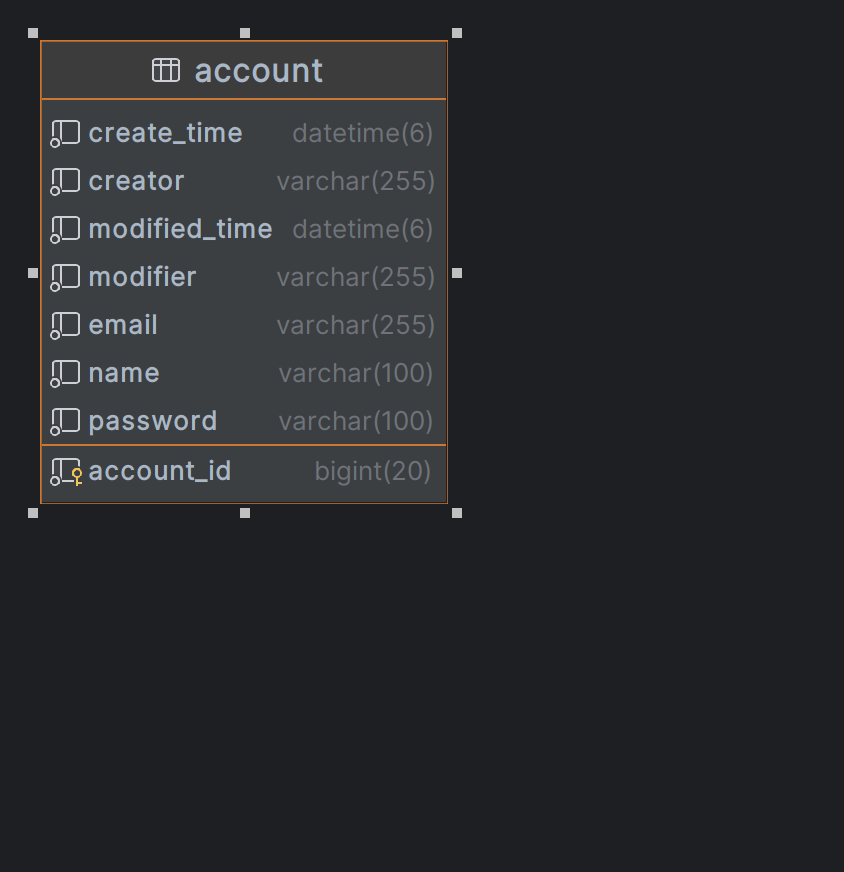
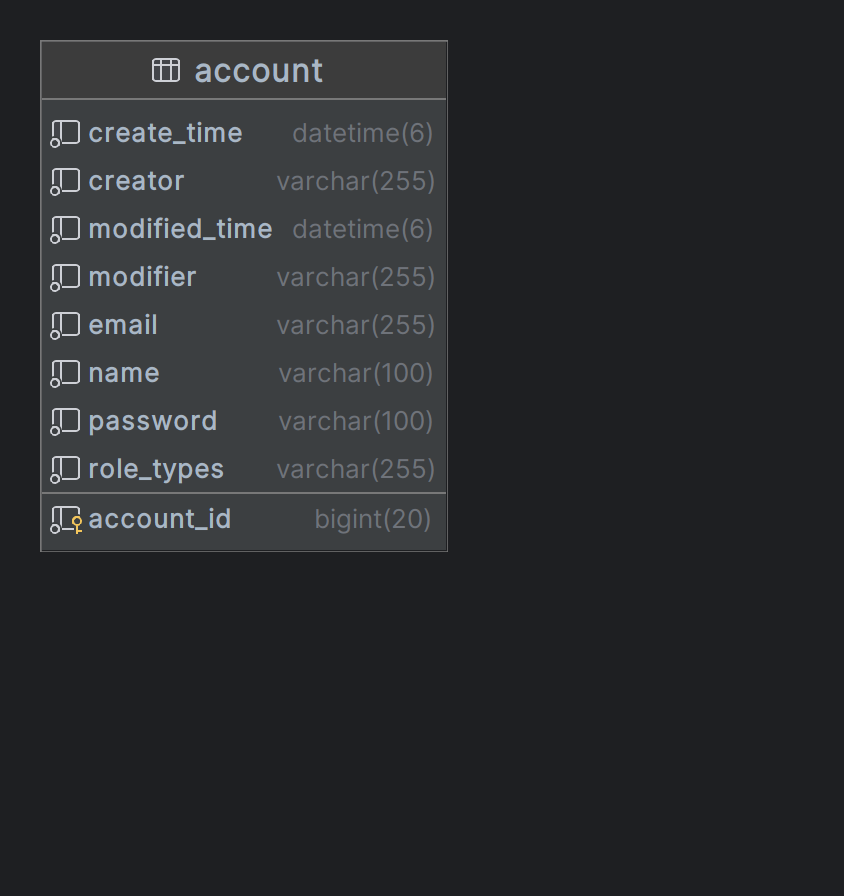
#6 사용자 계정에 대한 권한 추가
- RoleType 추가
-- ADMIN, DEVELOPER, MANAGER, USER 로 이루어진 권한 추가
-- 해당 권한에 대한 Entity 매핑 시 String으로 저장되도록 Converter 구성
-- 관련 DTO 내 RoleType 관련 추가
-- 관련하여 Principal 객체 내 RoleType 관련 추가
- 변경사항에 대해 ERD 갱신

Changed region(s): [[0.0308, 0.031, 0.5545, 0.6193]]

diff --git a/admin-service/src/main/java/com/guardjo/simpleboard/admin/model/security/BoardAdminPrincipal.java b/admin-service/src/main/java/com/guardjo/simpleboard/admin/model/security/BoardAdminPrincipal.java
@@ -1,32 +1,43 @@
 package com.guardjo.simpleboard.admin.model.security;
 
+import com.guardjo.simpleboard.admin.domain.constant.RoleType;
 import com.guardjo.simpleboard.admin.model.AccountDto;
 import org.springframework.security.core.GrantedAuthority;
+import org.springframework.security.core.authority.SimpleGrantedAuthority;
+import org.springframework.security.core.authority.mapping.GrantedAuthoritiesMapper;
 import org.springframework.security.core.userdetails.UserDetails;
 import org.springframework.security.oauth2.core.user.OAuth2User;
 
 import java.util.Collection;
 import java.util.Collections;
 import java.util.Map;
+import java.util.Set;
+import java.util.stream.Collectors;
 
 public record BoardAdminPrincipal(String email, String name, String password,
                                   Collection<? extends GrantedAuthority> authorities,
                                   Map<String, Object> oAuth2Attributes) implements UserDetails, OAuth2User {
-    public static BoardAdminPrincipal of(String email, String name, String password) {
+    public static BoardAdminPrincipal of(String email, String name, String password, Set<RoleType> roleTypes) {
         return new BoardAdminPrincipal(
                 email,
                 name,
                 password,
-                Collections.EMPTY_SET,
+                roleTypes.stream()
+                        .map(RoleType::name)
+                        .map(SimpleGrantedAuthority::new)
+                        .collect(Collectors.toUnmodifiableSet()),
                 Map.of());
     }
 
-    public static BoardAdminPrincipal of(String email, String name, String password, Map<String, Object> oAuth2Attributes) {
+    public static BoardAdminPrincipal of(String email, String name, String password, Set<RoleType> roleTypes, Map<String, Object> oAuth2Attributes) {
         return new BoardAdminPrincipal(
                 email,
                 name,
                 password,
-                Collections.EMPTY_SET,
+                roleTypes.stream()
+                        .map(RoleType::name)
+                        .map(SimpleGrantedAuthority::new)
+                        .collect(Collectors.toUnmodifiableSet()),
                 oAuth2Attributes);
     }
 
@@ -34,7 +45,8 @@ public record BoardAdminPrincipal(String email, String name, String password,
         return BoardAdminPrincipal.of(
                 accountDto.email(),
                 accountDto.name(),
-                accountDto.password()
+                accountDto.password(),
+                accountDto.roleTypes()
         );
     }
 
@@ -42,7 +54,11 @@ public record BoardAdminPrincipal(String email, String name, String password,
         return AccountDto.of(
                 principal.getUsername(),
                 principal.getNickName(),
-                principal.getPassword()
+                principal.getPassword(),
+                principal.authorities.stream()
+                        .map(GrantedAuthority::getAuthority)
+                        .map(RoleType::valueOf)
+                        .collect(Collectors.toSet())
         );
     }
 

diff --git a/admin-service/src/main/java/com/guardjo/simpleboard/admin/domain/Account.java b/admin-service/src/main/java/com/guardjo/simpleboard/admin/domain/Account.java
@@ -1,14 +1,21 @@
 package com.guardjo.simpleboard.admin.domain;
 
+import com.guardjo.simpleboard.admin.domain.constant.RoleType;
+import com.guardjo.simpleboard.admin.domain.converter.RoleTypesConverter;
+import lombok.EqualsAndHashCode;
 import lombok.Getter;
 import lombok.Setter;
 import lombok.ToString;
 
 import javax.persistence.*;
+import java.util.HashSet;
+import java.util.LinkedHashSet;
 import java.util.Objects;
+import java.util.Set;
 
 @Getter
 @ToString(callSuper = true)
+@EqualsAndHashCode
 @Entity
 @Table(indexes = {
         @Index(name = "email", columnList = "email"),
@@ -32,20 +39,25 @@ public class Account extends MetaInfoData{
     @Column(nullable = false, length = 100)
     private String password;
 
-    protected Account(String email, String name, String password, String creator) {
+    @Convert(converter = RoleTypesConverter.class)
+    @Column(nullable = false)
+    private Set<RoleType> roleTypes = new LinkedHashSet<>();
+
+    protected Account(String email, String name, Set<RoleType> roleTypes, String password, String creator) {
         this.email = email;
         this.name = name;
+        this.roleTypes = roleTypes;
         this.password = password;
         this.creator = creator;
         this.modifier = creator;
     }
 
-    public Account() {
+    protected Account() {
 
     }
 
-    public static Account of(String email, String name, String password) {
-        return new Account(email, name, password, null);
+    public static Account of(String email, String name, Set<RoleType> roleTypes, String password) {
+        return new Account(email, name, roleTypes, password, null);
     }
 
     /**
@@ -56,19 +68,7 @@ public class Account extends MetaInfoData{
      * @param creator 생성자
      * @return 회원 Entity
      */
-    public static Account of(String email, String name, String password, String creator) {
-        return new Account(email, name, password, creator);
-    }
-
-    @Override
-    public boolean equals(Object o) {
-        if (this == o) return true;
-        if (!(o instanceof Account account)) return false;
-        return Objects.equals(email, account.email) && Objects.equals(name, account.name) && Objects.equals(password, account.password);
-    }
-
-    @Override
-    public int hashCode() {
-        return Objects.hash(email, name, password);
+    public static Account of(String email, String name, Set<RoleType> roleTypes, String password, String creator) {
+        return new Account(email, name, roleTypes, password, creator);
     }
 }

diff --git a/admin-service/src/main/java/com/guardjo/simpleboard/admin/model/AccountDto.java b/admin-service/src/main/java/com/guardjo/simpleboard/admin/model/AccountDto.java
@@ -1,28 +1,33 @@
 package com.guardjo.simpleboard.admin.model;
 
 import com.guardjo.simpleboard.admin.domain.Account;
+import com.guardjo.simpleboard.admin.domain.constant.RoleType;
+
+import java.util.Set;
 
 /**
  * A DTO for the {@link com.guardjo.simpleboard.admin.domain.Account} entity
  */
-public record AccountDto(String email, String name, String password) {
-    public static AccountDto of(String email, String name, String password) {
-        return new AccountDto(email, name, password);
+public record AccountDto(String email, String name, String password, Set<RoleType> roleTypes) {
+    public static AccountDto of(String email, String name, String password, Set<RoleType> roleTypes) {
+        return new AccountDto(email, name, password, roleTypes);
     }
 
     public static AccountDto from(Account account) {
         return AccountDto.of(
                 account.getEmail(),
                 account.getName(),
-                account.getPassword()
+                account.getPassword(),
+                account.getRoleTypes()
         );
     }
 
     public static Account toEntity(AccountDto accountDto) {
         return Account.of(
-                accountDto.email,
-                accountDto.name,
-                accountDto.password
+                accountDto.email(),
+                accountDto.name(),
+                accountDto.roleTypes(),
+                accountDto.password()
         );
     }
 }

diff --git a/admin-service/src/main/java/com/guardjo/simpleboard/admin/domain/converter/RoleTypesConverter.java b/admin-service/src/main/java/com/guardjo/simpleboard/admin/domain/converter/RoleTypesConverter.java
@@ -1,0 +1,27 @@
+package com.guardjo.simpleboard.admin.domain.converter;
+
+import com.guardjo.simpleboard.admin.domain.constant.RoleType;
+
+import javax.persistence.AttributeConverter;
+import javax.persistence.Converter;
+import java.util.Arrays;
+import java.util.Set;
+import java.util.stream.Collectors;
+
+@Converter
+public class RoleTypesConverter implements AttributeConverter<Set<RoleType>, String> {
+    private final static String DELIMITER = ",";
+    @Override
+    public String convertToDatabaseColumn(Set<RoleType> attribute) {
+        return attribute.stream()
+                .map(RoleType::name)
+                .collect(Collectors.joining(DELIMITER));
+    }
+
+    @Override
+    public Set<RoleType> convertToEntityAttribute(String dbData) {
+        return Arrays.stream(dbData.split(DELIMITER))
+                .map(RoleType::valueOf)
+                .collect(Collectors.toSet());
+    }
+}

diff --git a/admin-service/src/main/java/com/guardjo/simpleboard/admin/domain/constant/RoleType.java b/admin-service/src/main/java/com/guardjo/simpleboard/admin/domain/constant/RoleType.java
@@ -1,0 +1,13 @@
+package com.guardjo.simpleboard.admin.domain.constant;
+
+import lombok.RequiredArgsConstructor;
+
+@RequiredArgsConstructor
+public enum RoleType {
+    USER("ROLE_USER"),
+    MANAGER("ROLE_MANAGER"),
+    DEVELOPER("ROLE_DEVELOPER"),
+    ADMIN("ROLE_ADMIN");
+
+    private final String roleName;
+}
